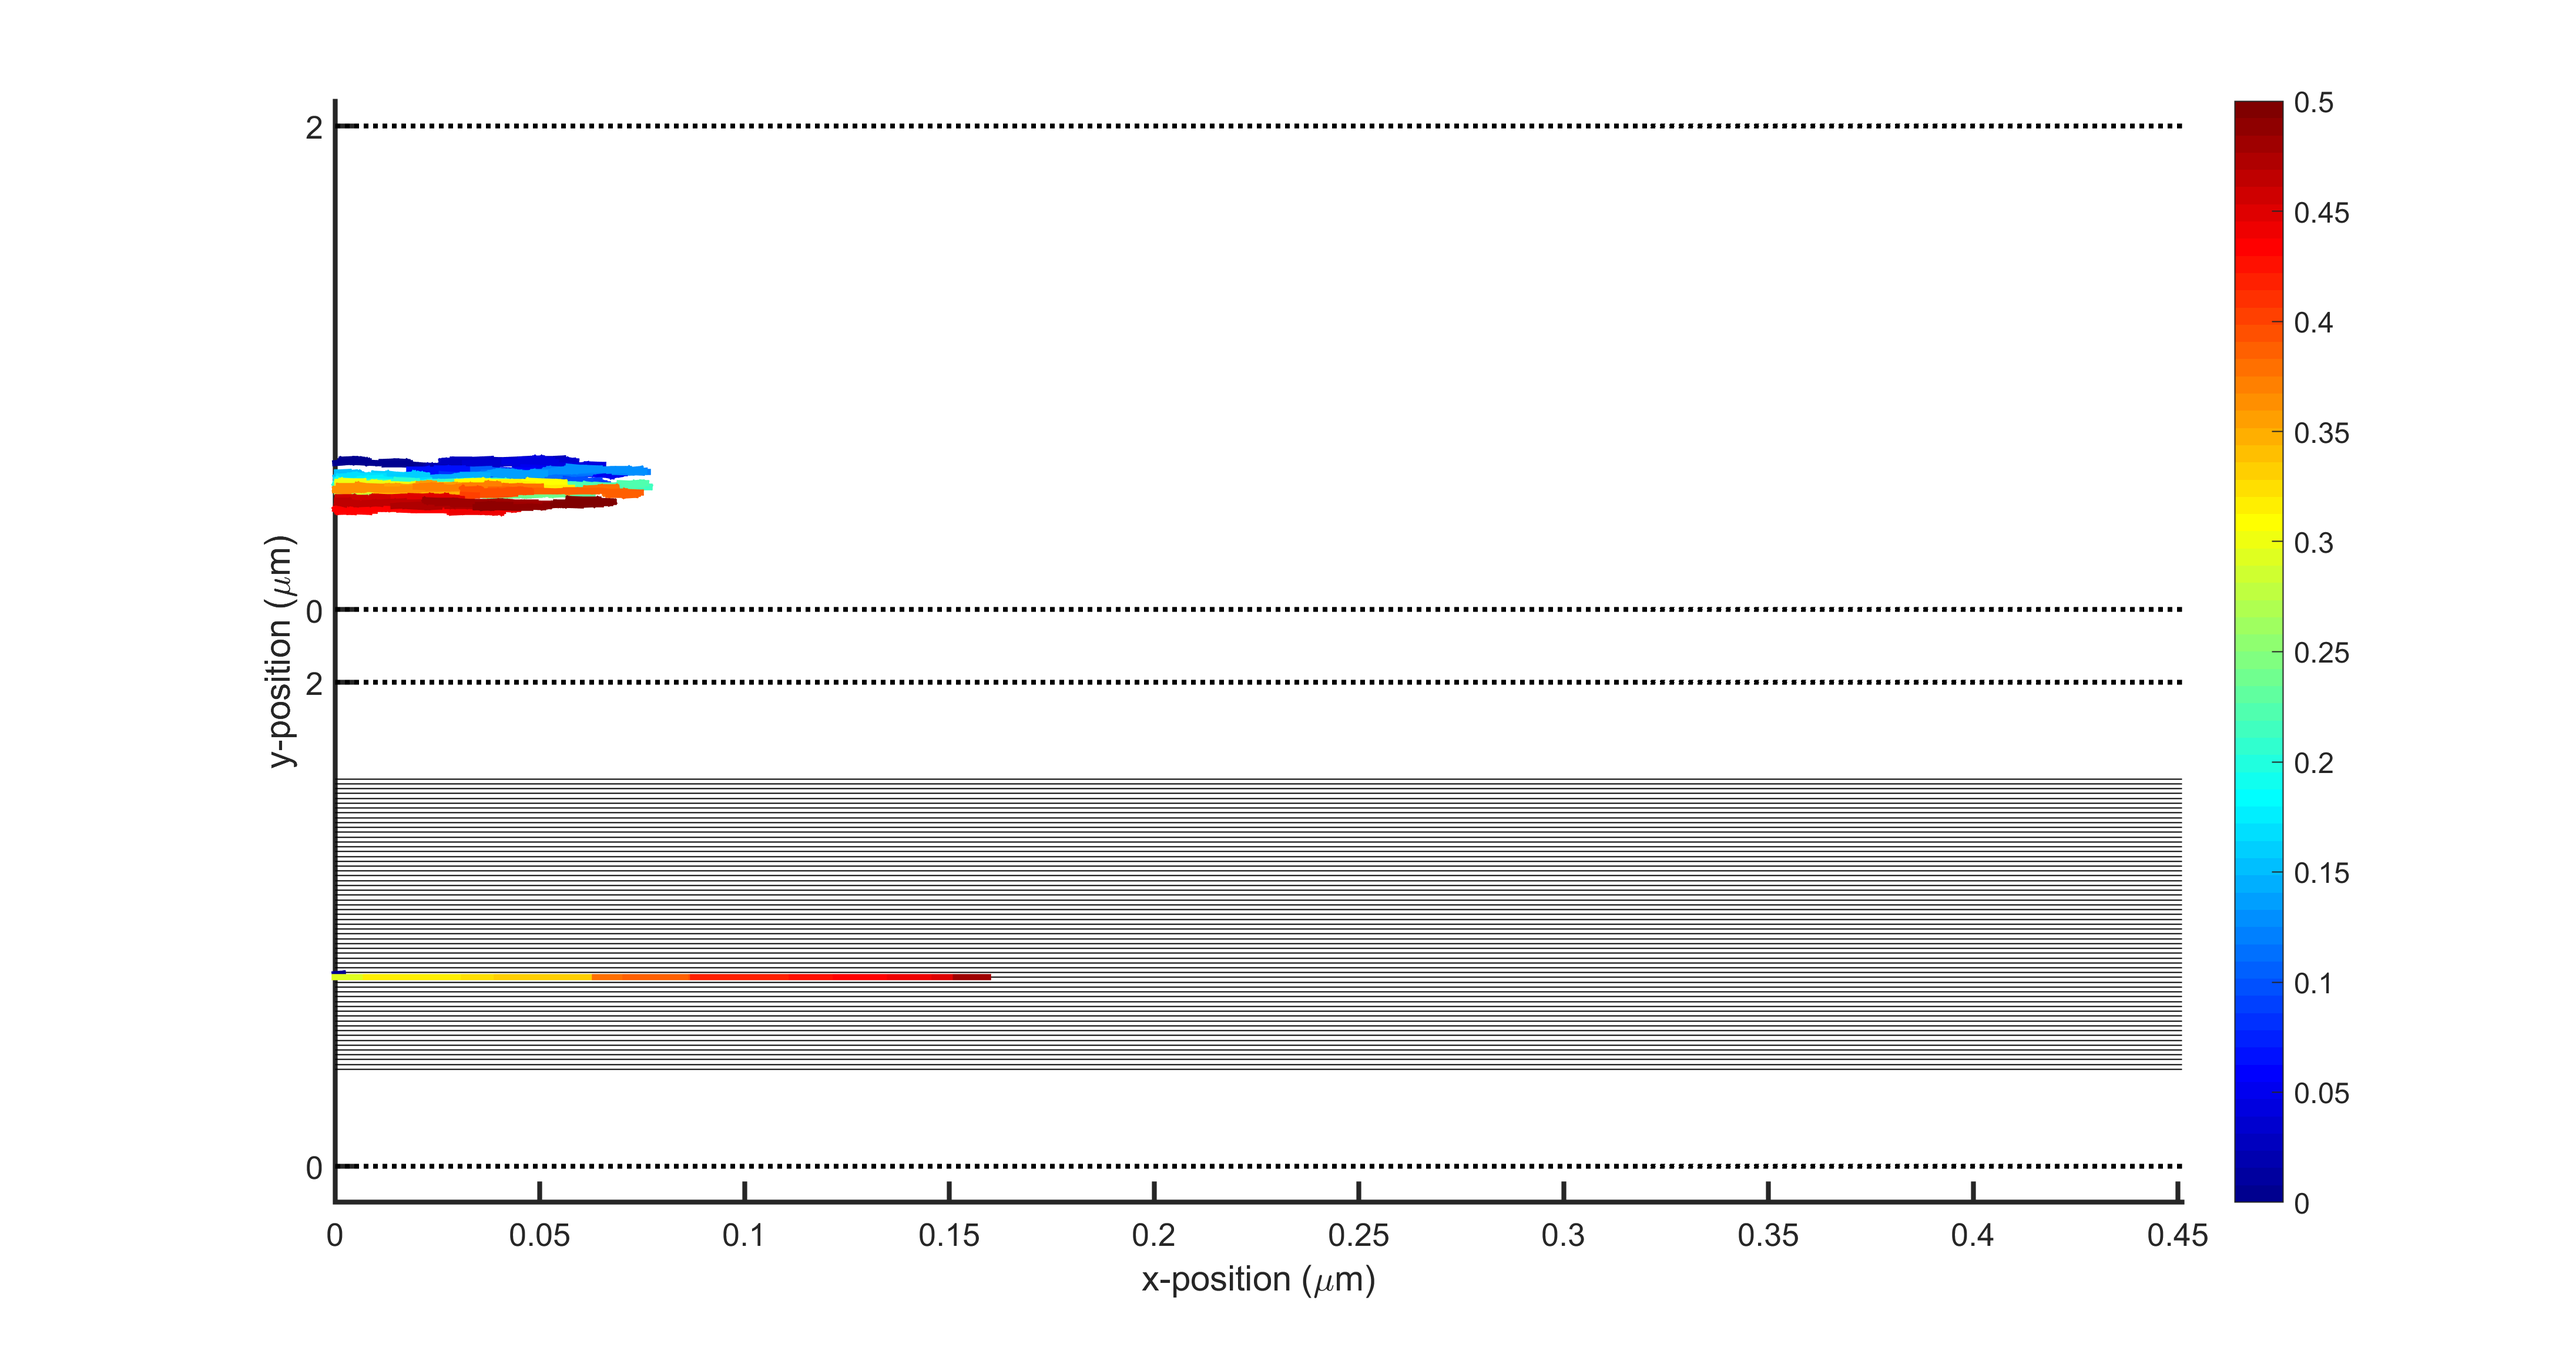
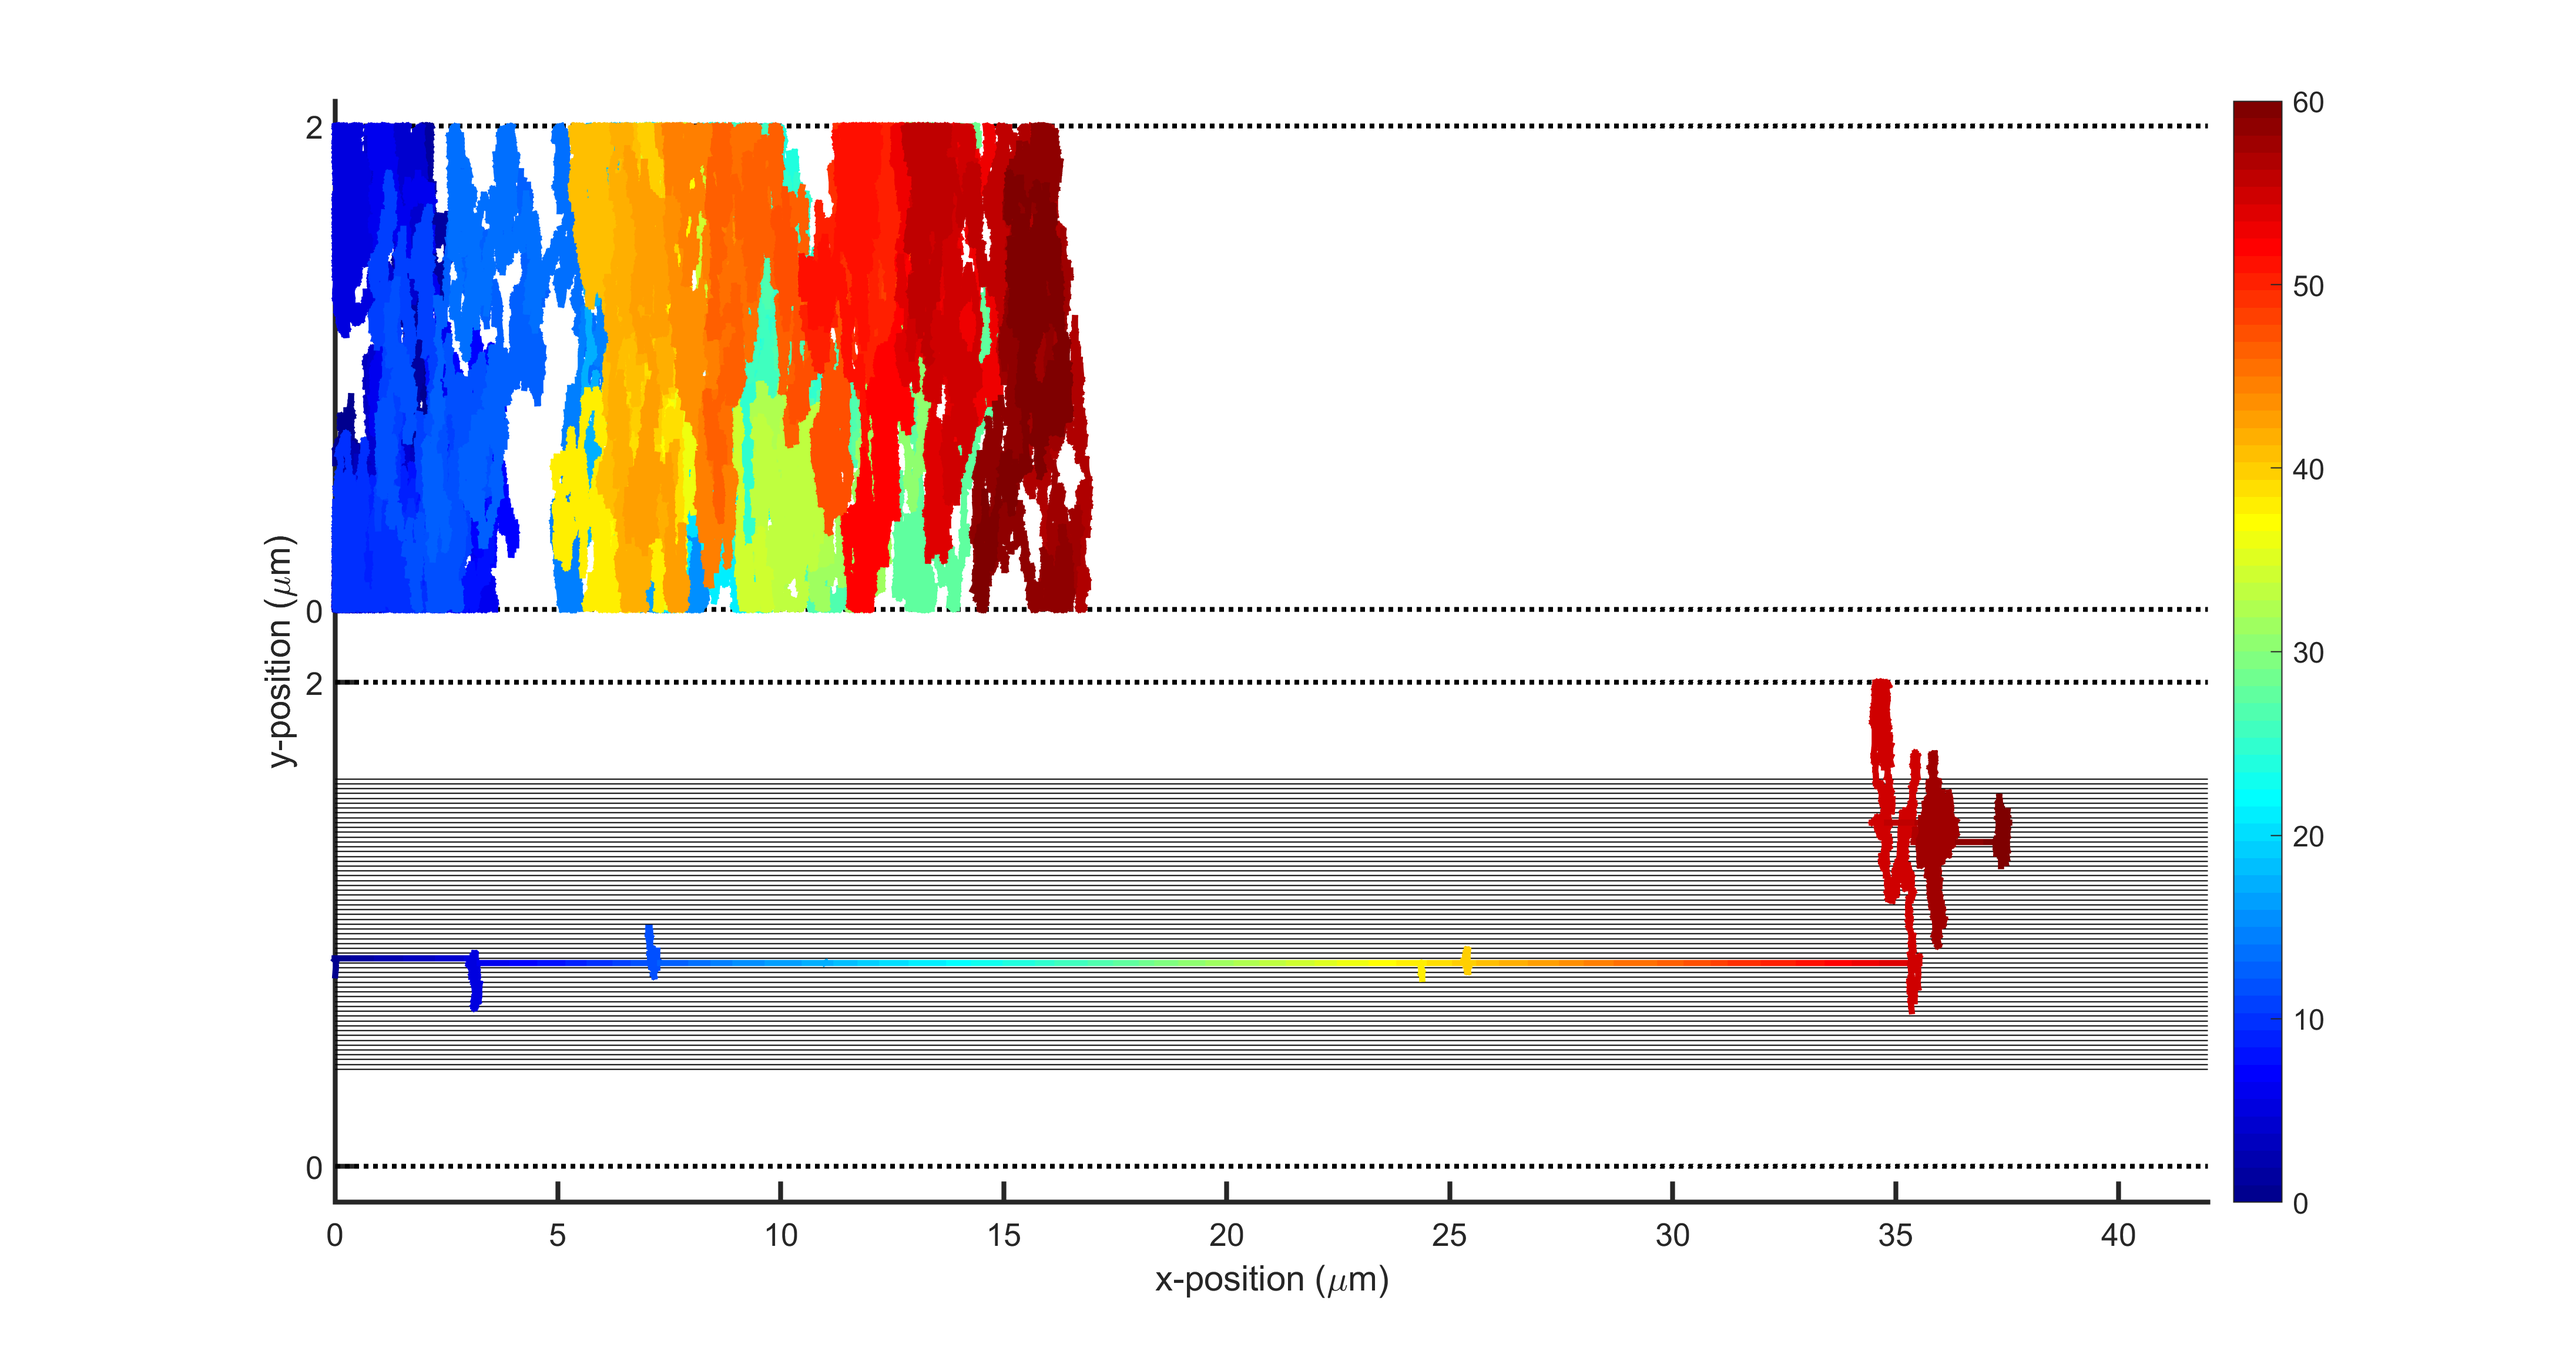
60 Second Simulations

diff --git a/Source/swain_corban_singh_mod.m b/Source/swain_corban_singh_mod.m
@@ -3,11 +3,11 @@ function swain_corban_singh_mod
 
 
 %% Global Variableas
-cacheName = "swain_SimulationCacheMod";
+cacheName = "swain_SimulationCacheMod_highD";
 
 
 % vv CHANGE THIS to 10 to recreate figures shown in report
-simTime = 0.5; % s
+simTime = 60; % s
 
 
 atpConc = 2e-3; % M
@@ -116,6 +116,7 @@ figures{13} = @testFigure3;
         pb.YLim = [0 (2000 * (((nVesicles + 11)* 2) ))] ./ 1e3;
         fb = CNSUtils.FigureBuilder;
         fb.Number = nFig;
+        fb.Name = sprintf("%d - Vessicle X-displacements, stacked", nFig);
         fb.PlotBuilders = pb;
         fb.Position = [245 83 1403 736];
     end
@@ -259,10 +260,10 @@ figures{9} = @modFigure3;
     function main
         CNSUtils.cleanup;
         
-        simulateAndSave;
+%         simulateAndSave;
         
         CNSUtils.FigureBuilder.setDefaults;
-        for i = 7:9
+        for i = 13
             figure(figures{i}()); drawnow;
             CNSUtils.FigureBuilder.saveFigure;
         end

diff --git a/Source/ModConstants.m b/Source/ModConstants.m
@@ -17,10 +17,10 @@ classdef ModConstants
         SIM_Y_LIM = [0 2e3]; % nm
         AXON_WIDTH = 2e3; % nm
         
-%         ZETA = 6 * pi * ModConstants.ETA * ModConstants.R_VES % pN s / nm
-%         D = SinghConstants.KBT / ModConstants.ZETA % nm^2 / s
-        D = 2e4 % nm^2 / s\
-        ZETA = SinghConstants.KBT / ModConstants.D; 
+        ZETA = 6 * pi * ModConstants.ETA * ModConstants.R_VES % pN s / nm
+        D = SinghConstants.KBT / ModConstants.ZETA % nm^2 / s
+%         D = 2e4 % nm^2 / s\
+%         ZETA = SinghConstants.KBT / ModConstants.D; 
         VD = 4 / 3 * pi * ModConstants.L_DYN .^ 3
         MAX_DIST = ModConstants.R_VES + ModConstants.L_DYN
         MIN_DIST = abs(ModConstants.R_VES - ModConstants.L_DYN)
